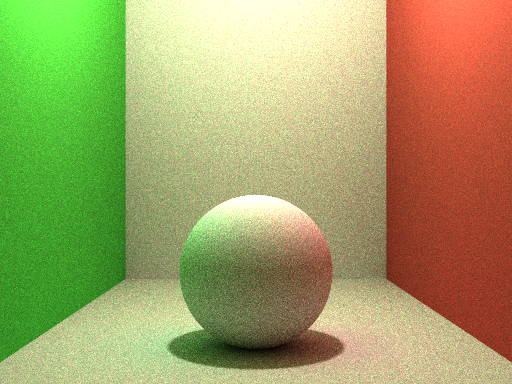
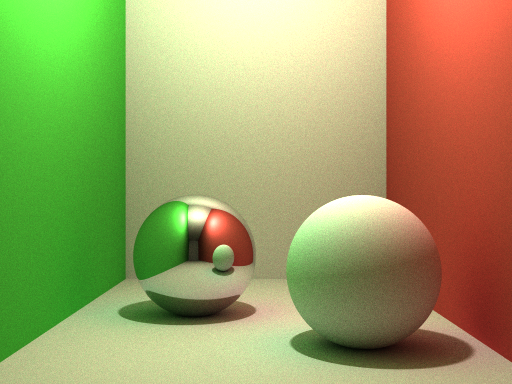
Shiny ballz be shiny

diff --git a/main.go b/main.go
@@ -26,6 +26,7 @@ type Shape struct {
 	position Vector3
 	color    Vector3
 	emissive Vector3
+	material string
 }
 
 type Sphere struct {
@@ -83,12 +84,12 @@ func Radiance(ray *Ray, objects []Intersectable, lights []SphereLight, depth int
 		return Vector3{X: 0, Y: 0, Z: 0}
 	}
 
-    orientedSurfaceNormal := Vector3{}
-    if intersection.normal.Dot(ray.direction) < 0.0 {
-        orientedSurfaceNormal = intersection.normal
-    } else {
-        orientedSurfaceNormal = intersection.normal.Inv()
-    }
+	orientedSurfaceNormal := Vector3{}
+	if intersection.normal.Dot(ray.direction) < 0.0 {
+		orientedSurfaceNormal = intersection.normal
+	} else {
+		orientedSurfaceNormal = intersection.normal.Inv()
+	}
 
 	brdfMod := intersection.shape.color
 	var p float64
@@ -105,74 +106,85 @@ func Radiance(ray *Ray, objects []Intersectable, lights []SphereLight, depth int
 			brdfMod = brdfMod.Mul(0.9 / p)
 		} else {
 			//Russian roulette
-            // TODO: This should take emittance in to account
+			// TODO: This should take emittance in to account
 			return Vector3{X: 0, Y: 0, Z: 0}
 		}
 	}
 
-    dr1 := 2 * math.Pi * rand.Float64()
-    dr2 := rand.Float64()
-    dr2s := math.Sqrt(dr2)
-    w := orientedSurfaceNormal
-    var u Vector3
-    if math.Abs(w.X) > float64(0.1) {
-        u = Vector3{X: 0, Y: 1, Z: 0}
-    } else {
-        u = Vector3{X: 1, Y: 0, Z: 0}
-    }
-    u = u.CrossProduct(w).Normalize()
-    v := w.CrossProduct(u)
+	if intersection.shape.material == "DIFF" {
+		dr1 := 2 * math.Pi * rand.Float64()
+		dr2 := rand.Float64()
+		dr2s := math.Sqrt(dr2)
+		w := orientedSurfaceNormal
+		var u Vector3
+		if math.Abs(w.X) > float64(0.1) {
+			u = Vector3{X: 0, Y: 1, Z: 0}
+		} else {
+			u = Vector3{X: 1, Y: 0, Z: 0}
+		}
+		u = u.CrossProduct(w).Normalize()
+		v := w.CrossProduct(u)
 
-    d2 := u.Mul(math.Cos(dr1) * dr2s).Add(v.Mul(math.Sin(dr1) * dr2s)).Add(w.Mul(math.Sqrt(1.0 - dr2)))
+		d2 := u.Mul(math.Cos(dr1) * dr2s).Add(v.Mul(math.Sin(dr1) * dr2s)).Add(w.Mul(math.Sqrt(1.0 - dr2)))
 
-    indirectRay := Ray{
-        origin:    intersection.point,
-        direction: d2.Normalize(),
-        mint:      0.0001,
-        maxt:      1000,
-    }
+		indirectRay := Ray{
+			origin:    intersection.point,
+			direction: d2.Normalize(),
+			mint:      0.0001,
+			maxt:      1000,
+		}
 
-	em := Vector3{X: 0, Y: 0, Z: 0}
-	for _, light := range lights {
-        sw := light.sphere.shape.position.Sub(intersection.point)
-        su := Vector3{}
-        if math.Abs(sw.X) > float64(0.1) {
-            su = Vector3{X: 0, Y: 1, Z: 0}
-        } else {
-            su = Vector3{X: 1, Y: 0, Z: 0}
-        }
-        su = su.CrossProduct(sw)
-        su = su.Normalize()
-        sv := sw.CrossProduct(su)
+		em := Vector3{X: 0, Y: 0, Z: 0}
+		for _, light := range lights {
+			sw := light.sphere.shape.position.Sub(intersection.point)
+			su := Vector3{}
+			if math.Abs(sw.X) > float64(0.1) {
+				su = Vector3{X: 0, Y: 1, Z: 0}
+			} else {
+				su = Vector3{X: 1, Y: 0, Z: 0}
+			}
+			su = su.CrossProduct(sw)
+			su = su.Normalize()
+			sv := sw.CrossProduct(su)
 
-        temp := intersection.point.Sub(light.sphere.shape.position)
-        lolDot := temp.Norm()
-        cosAMax := math.Sqrt(float64(1) - (light.sphere.radius*light.sphere.radius)/lolDot)
-        eps1 := rand.Float64()
-        eps2 := rand.Float64()
-        cosA := float64(1.0) - eps1 + eps1*cosAMax
-        sinA := math.Sqrt(float64(1.0) - cosA*cosA)
-        phi := 2 * math.Pi * eps2
+			temp := intersection.point.Sub(light.sphere.shape.position)
+			lolDot := temp.Norm()
+			cosAMax := math.Sqrt(float64(1) - (light.sphere.radius*light.sphere.radius)/lolDot)
+			eps1 := rand.Float64()
+			eps2 := rand.Float64()
+			cosA := float64(1.0) - eps1 + eps1*cosAMax
+			sinA := math.Sqrt(float64(1.0) - cosA*cosA)
+			phi := 2 * math.Pi * eps2
 
-        lsu := su.Mul(math.Cos(phi) * sinA)
-        lsv := sv.Mul(math.Sin(phi) * sinA)
-        lsw := sw.Mul(cosA)
-        l := lsu.Add(lsv)
-        l = l.Add(lsw)
-        l = l.Normalize()
+			lsu := su.Mul(math.Cos(phi) * sinA)
+			lsv := sv.Mul(math.Sin(phi) * sinA)
+			lsw := sw.Mul(cosA)
+			l := lsu.Add(lsv)
+			l = l.Add(lsw)
+			l = l.Normalize()
 
-        distance := math.Sqrt(lolDot)
-        sr := Ray{origin: intersection.point, direction: l, mint: 0.0001, maxt: 100000}
-        shadowRay := Trace(&sr, objects, distance)
-        lightRay := Trace(&sr, []Intersectable{light.sphere}, distance)
-        if (shadowRay == Intersection{} && lightRay != Intersection{}) {
-            omega := 2.0 * math.Pi * (1.0 - cosAMax)
-            lightAngle := orientedSurfaceNormal.Dot(l)
-            lightContribution := brdfMod.MulVec(light.emission.Mul(lightAngle)).Mul(omega).Div(math.Pi)
-            em = em.Add(lightContribution)
-        }
+			distance := math.Sqrt(lolDot)
+			sr := Ray{origin: intersection.point, direction: l, mint: 0.0001, maxt: 100000}
+			shadowRay := Trace(&sr, objects, distance)
+			lightRay := Trace(&sr, []Intersectable{light.sphere}, distance)
+			if (shadowRay == Intersection{} && lightRay != Intersection{}) {
+				omega := 2.0 * math.Pi * (1.0 - cosAMax)
+				lightAngle := orientedSurfaceNormal.Dot(l)
+				lightContribution := brdfMod.MulVec(light.emission.Mul(lightAngle)).Mul(omega).Div(math.Pi)
+				em = em.Add(lightContribution)
+			}
+		}
+		return em.Add(brdfMod.MulVec(Radiance(&indirectRay, objects, lights, depth+1, 0.0, rnd)))
+	} else if intersection.shape.material == "SPEC" {
+		newRay := Ray{
+			origin:    intersection.point,
+			direction: ray.direction.Sub(intersection.normal.Mul(2).Mul(intersection.normal.Dot(ray.direction))),
+			mint:      0,
+			maxt:      1000,
+		}
+		return brdfMod.MulVec(Radiance(&newRay, objects, lights, depth+1, 0.0, rnd))
 	}
-	return em.Add(brdfMod.MulVec(Radiance(&indirectRay, objects, lights, depth+1, 0.0, rnd)))
+	return Vector3{X: 0, Y: 0, Z: 0}
 }
 
 func Trace(ray *Ray, objects []Intersectable, tnear float64) Intersection {
@@ -211,21 +223,22 @@ func main() {
 	fmt.Println("lets trace some butts!")
 
 	// A butt
-    //p1 := Plane{normal: Vector3{x: 0, y: 1, z: 0}, shape: Shape{position: Vector3{x: 0, y: -10, z: 0}, color: Vector3{x: 0.75, y: 0.75, z: 0.75}, emissive: Vector3{x: 0, y: 0, z: 0}}}
-	s2 := Sphere{radius: 5.0, shape: Shape{position: Vector3{X: 0.0, Y: -5.2, Z: 40}, color: Vector3{X: 0.85, Y: 0.85, Z: 0.85}, emissive: Vector3{X: 0, Y: 0, Z: 0}}}
+	//p1 := Plane{normal: Vector3{x: 0, y: 1, z: 0}, shape: Shape{position: Vector3{x: 0, y: -10, z: 0}, color: Vector3{x: 0.75, y: 0.75, z: 0.75}, emissive: Vector3{x: 0, y: 0, z: 0}}}
+	s2 := Sphere{radius: 5.0, shape: Shape{position: Vector3{X: 5.0, Y: -5.2, Z: 50}, color: Vector3{X: 0.85, Y: 0.85, Z: 0.85}, emissive: Vector3{X: 0, Y: 0, Z: 0}, material: "SPEC"}}
+	s9 := Sphere{radius: 5.0, shape: Shape{position: Vector3{X: -7.0, Y: -5.2, Z: 40}, color: Vector3{X: 0.85, Y: 0.85, Z: 0.85}, emissive: Vector3{X: 0, Y: 0, Z: 0}, material: "DIFF"}}
 	//s1 := Sphere{radius: 5.0, shape: Shape{position: Vector3{X: 5.0, Y: -5.0, Z: 40}, color: Vector3{X: 0.75, Y: 0.75, Z: 0.75}, emissive: Vector3{X: 0, Y: 0, Z: 0}}}
-	s3 := Sphere{radius: 100000, shape: Shape{position: Vector3{X: 0, Y: -100010, Z: 10}, color: Vector3{X: 0.75, Y: 0.75, Z: 0.75}, emissive: Vector3{X: 0, Y: 0, Z: 0}}}
-	s4 := Sphere{radius: 100000, shape: Shape{position: Vector3{X: -100015, Y: 0, Z: 10}, color: Vector3{X: 0.75, Y: 0.25, Z: 0.25}, emissive: Vector3{X: 0, Y: 0, Z: 0}}}
-	s6 := Sphere{radius: 100000, shape: Shape{position: Vector3{X: 100015, Y: 0, Z: 10}, color: Vector3{X: 0.25, Y: 0.75, Z: 0.25}, emissive: Vector3{X: 0, Y: 0, Z: 0}}}
-	s5 := Sphere{radius: 100000, shape: Shape{position: Vector3{X: 0, Y: 0, Z: 100070}, color: Vector3{X: 0.75, Y: 0.75, Z: 0.75}, emissive: Vector3{X: 0, Y: 0, Z: 0}}}
-	s8 := Sphere{radius: 100000, shape: Shape{position: Vector3{X: 0, Y: 0, Z: -100050}, color: Vector3{X: 0.75, Y: 0.75, Z: 0.75}, emissive: Vector3{X: 0, Y: 0, Z: 0}}}
-	s7 := Sphere{radius: 100000, shape: Shape{position: Vector3{X: 0, Y: 100055, Z: 10}, color: Vector3{X: 0.75, Y: 0.75, Z: 0.75}, emissive: Vector3{X: 0, Y: 0, Z: 0}}}
+	s3 := Sphere{radius: 100000, shape: Shape{position: Vector3{X: 0, Y: -100010, Z: 10}, color: Vector3{X: 0.75, Y: 0.75, Z: 0.75}, emissive: Vector3{X: 0, Y: 0, Z: 0}, material: "DIFF"}}
+	s4 := Sphere{radius: 100000, shape: Shape{position: Vector3{X: -100015, Y: 0, Z: 10}, color: Vector3{X: 0.75, Y: 0.25, Z: 0.25}, emissive: Vector3{X: 0, Y: 0, Z: 0}, material: "DIFF"}}
+	s6 := Sphere{radius: 100000, shape: Shape{position: Vector3{X: 100015, Y: 0, Z: 10}, color: Vector3{X: 0.25, Y: 0.75, Z: 0.25}, emissive: Vector3{X: 0, Y: 0, Z: 0}, material: "DIFF"}}
+	s5 := Sphere{radius: 100000, shape: Shape{position: Vector3{X: 0, Y: 0, Z: 100070}, color: Vector3{X: 0.75, Y: 0.75, Z: 0.75}, emissive: Vector3{X: 0, Y: 0, Z: 0}, material: "DIFF"}}
+	s8 := Sphere{radius: 100000, shape: Shape{position: Vector3{X: 0, Y: 0, Z: -100050}, color: Vector3{X: 0.75, Y: 0.75, Z: 0.75}, emissive: Vector3{X: 0, Y: 0, Z: 0}, material: "DIFF"}}
+	s7 := Sphere{radius: 100000, shape: Shape{position: Vector3{X: 0, Y: 100055, Z: 10}, color: Vector3{X: 0.75, Y: 0.75, Z: 0.75}, emissive: Vector3{X: 0, Y: 0, Z: 0}, material: "DIFF"}}
 
 	sl1 := SphereLight{
 		sphere:   Sphere{radius: 1.2, shape: Shape{position: Vector3{X: 0, Y: 30, Z: 40}, emissive: Vector3{X: 0, Y: 0, Z: 0}}},
 		emission: Vector3{X: 550, Y: 550, Z: 550},
 	}
-	objects := []Intersectable{s2, s4, s5, s6, s7, s3, s8}
+	objects := []Intersectable{s2, s4, s5, s6, s7, s3, s8, s9}
 	sphereLights := []SphereLight{sl1}
 
 	var width int = 512
